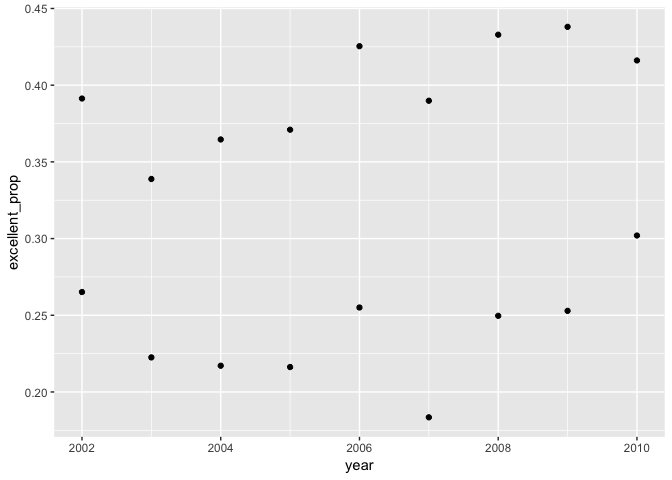
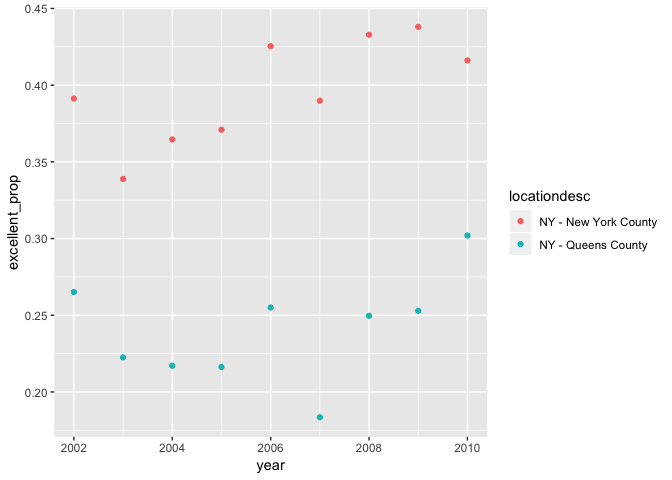
correct the scatter plot in problem 3

diff --git a/p8105_homowork2_qs2200.md b/p8105_homowork2_qs2200.md
@@ -165,7 +165,7 @@ brfss_nycqu =
   mutate(excellent_prop = excellent/(excellent + poor + fair + good))
 
 ggplot(brfss_nycqu, aes(x = year, y = excellent_prop ))+
-  geom_point()
+  geom_point(aes(color = locationdesc))
 ```
 
 ![](p8105_homowork2_qs2200_files/figure-markdown_github/problem%203.4-1.png)
